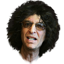
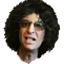
names above heads

diff --git a/game/gameWorld.js b/game/gameWorld.js
@@ -243,9 +243,10 @@ var world = module.exports = function (game, players, gameTimeLimit) {
         obj.components.push(this.genTurretComponent(this.turretFront));
         obj.components.push(this.genTurretComponent(this.turretRear));
         obj.components.push(this.genHillComponent(this.hill));
-
+        var p;
         for (i = 0; i < this.playersList.length; i++) {
-            obj.components.push(this.genPlayerComponent(this.playersList[i]));
+            p = this.playersList[i];
+            obj.components.push(this.genPlayerComponent(p));
         }
         for (i = 0; i < this.projectileList.length; i++) {
             obj.components.push(this.genProjectileComponent(this.projectileList[i]));
@@ -338,6 +339,7 @@ var world = module.exports = function (game, players, gameTimeLimit) {
     };
 
     this.backgroundComponents = this.genBackgroundComponents();
+    this.font = "20px sans-serif";
 
     this.genPlayerComponent = function (player) {
         var comp = new GameComponent();
@@ -346,6 +348,8 @@ var world = module.exports = function (game, players, gameTimeLimit) {
         comp.a = player.a;
         comp.isObj = true;
         comp.id = player.celeb.id;
+        comp.playerName = player.name;
+        comp.font = this.font;
         return comp;
     };
 

diff --git a/public/javascripts/playerMain.js b/public/javascripts/playerMain.js
@@ -184,7 +184,7 @@ function updateGameArea(data) {
         a = you.angle - comp.a;
 
         ctx.translate(xB[0],xB[1]);
-        ctx.rotate(a);//Math.PI * 2 - a);
+        ctx.rotate(a);
         if (comp.isObj) {
             obj = getGameObject(comp.id);
             if (obj !== null) {
@@ -192,6 +192,14 @@ function updateGameArea(data) {
                 w = img.width;
                 h = img.height;
                 ctx.drawImage(img, -w/2,-h/2,w,h);
+                if (comp.playerName !== undefined) {
+                    //console.log(comp.playerName);
+                    ctx.rotate(-a);
+                    ctx.font = comp.font;
+                    ctx.fillStyle = comp.fillStyle;
+                    ctx.fillText(comp.playerName, -5*comp.playerName.length,-h/2-10);
+                    ctx.rotate(a);
+                }
             }
         } else if (comp.isRect) {
             w = comp.w;
